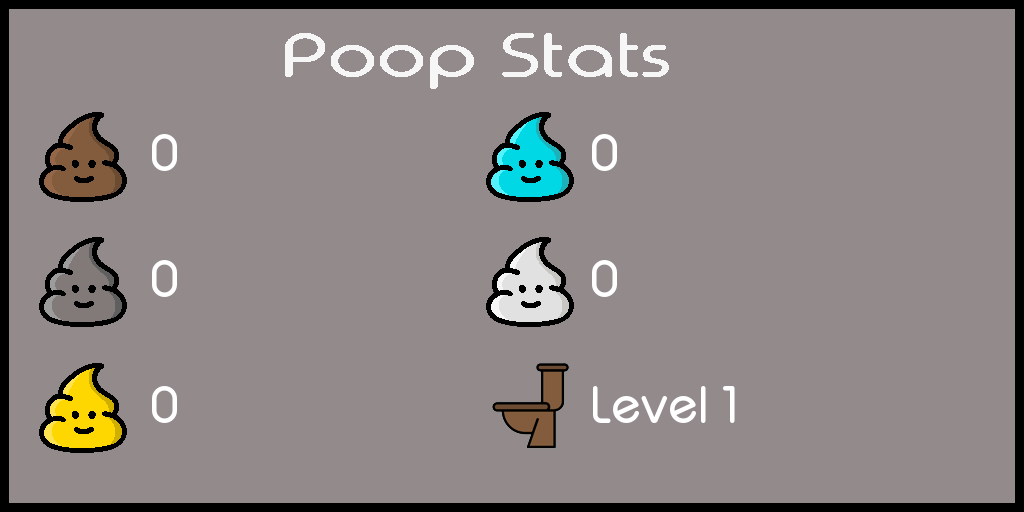
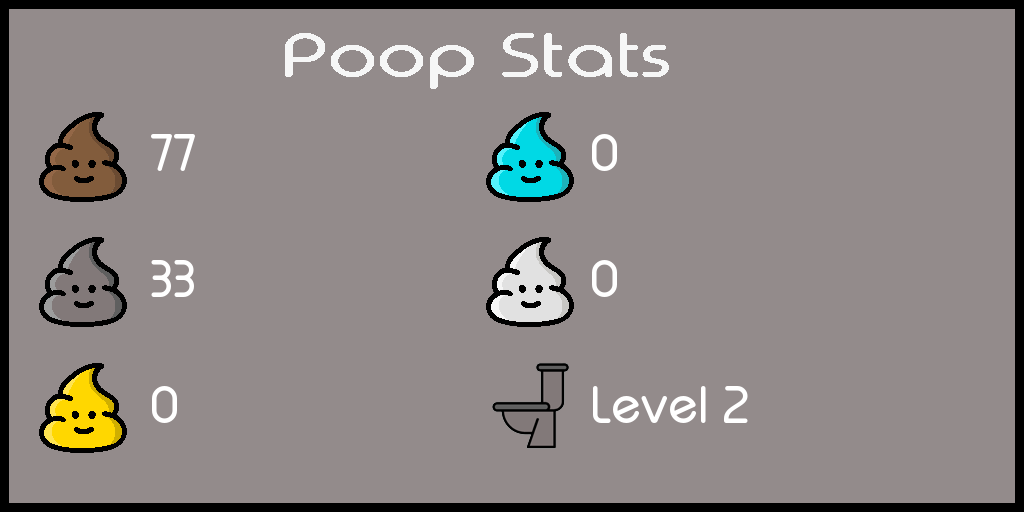
levelup working x2

diff --git a/cogs/general.py b/cogs/general.py
@@ -24,11 +24,13 @@ class General(commands.Cog):
         font = ImageFont.truetype("./files/font.otf", size = 50)
         draw = ImageDraw.Draw(background)
 
+        print(poops)
+
         draw.text((150, 124), str(poops[0]), font = font, fill = (255, 255, 255))
         draw.text((150, 250), str(poops[1]), font = font, fill = (255, 255, 255))
-        draw.text((590, 250), str(poops[3]), font = font, fill = (255, 255, 255))
         draw.text((150, 376), str(poops[2]), font = font, fill = (255, 255, 255))
-        draw.text((590, 124), str(poops[4]), font = font, fill = (255, 255, 255))
+        draw.text((590, 124), str(poops[3]), font = font, fill = (255, 255, 255))
+        draw.text((590, 250), str(poops[4]), font = font, fill = (255, 255, 255))
         draw.text((590, 376), f"Level {toilet_level}", font = font, fill = (255, 255, 255))
 
         background.save("./files/images/temporary.png")
@@ -39,18 +41,13 @@ class General(commands.Cog):
     @commands.dynamic_cooldown(pooputils.get_cooldown, commands.BucketType.user)
     async def poop(self, ctx: commands.Context):
         pooputils.check_poops(ctx.author)
-
-        toilet = pooputils.get_toilet(ctx.author)
-        obtained_poops = pooputils.add_poops(ctx.author, toilet)
-
-        with open("./files/poop.json", "r") as f:
-            data = json.load(f)
-
-        poop_info: str = ""
-        for i, amount in enumerate(obtained_poops):
-            poop_info += f"{data['poops'][f'poop{i + 1}']['name']}: +{amount} <:poop{i + 1}:{data['emoji'][f'poop{i + 1}']}>\n"
-
-        embed = discord.Embed(description = f"Poops Obtained: {poop_info}", color = discord.Color.green())
+        emojis: dict = pooputils.get_emojis()
+        poop_names: dict = pooputils.get_poop_names()
+        obtained_poops = pooputils.add_poops(ctx.author)
+        poops: str = "\n".join([
+            f"<:{poop}:{emojis[poop]}> {poop_names[poop]['name']}: {amount}" for poop, amount in obtained_poops.items()
+        ])
+        embed = discord.Embed(description = f"Poops Obtained:\n{poops}", color = discord.Color.green())
         embed.set_author(icon_url = self.bot.user.avatar.url, name = "Satisfying Poop")
 
         await ctx.send(embed = embed)

diff --git a/utils/pooputils.py b/utils/pooputils.py
@@ -78,17 +78,36 @@ def get_toilet(member):
     return result[0]
 
 
-def add_poops(member, toilet):
-    with open("./files/poop.json", "r") as f:
-        data = json.load(f)
+def get_winnings(toilet: int) -> dict:
+    return {
+        poop: random.randint(*_range) for poop, _range in get_config()["winnings"][str(toilet)].items()
+    }
 
-    string = "UPDATE poop SET " + ", ".join([f"{x} = {x} + ?" for x in data["winnings"][str(toilet)]])
-    val = tuple([random.randint(x[0], x[1]) for x in data["winnings"][str(toilet)].values()], )
 
-    c.execute(string, val)
+def add_poops(member: discord.Member) -> dict:
+    winnings: dict = get_winnings(get_toilet(member))
+    print(winnings)
+    c.execute(
+        "UPDATE poop "
+        "SET poop1 = poop1 + ?, "
+        "poop2 = poop2 + ?, "
+        "poop3 = poop3 + ?, "
+        "poop4 = poop4 + ?, "
+        "poop5 = poop5 + ? "
+        "WHERE member = ? AND guild = ?",
+        (
+            winnings.get("poop1", 0),
+            winnings.get("poop2", 0),
+            winnings.get("poop3", 0),
+            winnings.get("poop4", 0),
+            winnings.get("poop5", 0),
+            member.id,
+            member.guild.id
+        )
+    )
     conn.commit()
 
-    return val
+    return winnings
 
 
 def get_config() -> dict:
@@ -103,8 +122,13 @@ def get_poop_values() -> dict:
 def get_emojis() -> dict:
     return get_config()["emoji"]
 
+
 def get_levelup() -> dict:
     return get_config()["levelup"]
+
+
+def get_poop_names() -> dict:
+    return get_config()["poops"]
 
 
 def get_all_poops(guild: discord.Guild):
@@ -125,3 +149,8 @@ def get_all_poops(guild: discord.Guild):
 
     formatted_poops.sort(reverse = True)
     return formatted_poops[:25]
+
+
+def set_prefix(guild: discord.Guild, prefix: str):
+    c.execute("UPDATE prefixes SET prefix = ? WHERE guild = ?", (prefix, guild.id))
+    conn.commit()

diff --git a/cogs/config.py b/cogs/config.py
@@ -1,0 +1,25 @@
+import discord
+
+from discord.ext import commands
+from utils import pooputils
+
+
+class Config(commands.Cog):
+    def __init__(self, bot: commands.Bot) -> None:
+        self.bot: commands.Bot = bot
+
+    @commands.command()
+    @commands.has_permissions(administrator = True)
+    async def setprefix(self, ctx: commands.Context, prefix: str = None):
+        if not prefix:
+            await ctx.send("You need to specify a prefix")
+            return
+
+        pooputils.set_prefix(ctx.guild, prefix)
+        await ctx.send(f"The prefix was changed to `{prefix}`")
+
+
+async def setup(bot: commands.Bot):
+    await bot.add_cog(
+        Config(bot)
+    )

diff --git a/bot.py b/bot.py
@@ -50,4 +50,4 @@ class Bot(commands.Bot):
 
 
 bot = Bot()
-bot.run("lmao I am not leaking the token again")
+bot.run("a")
